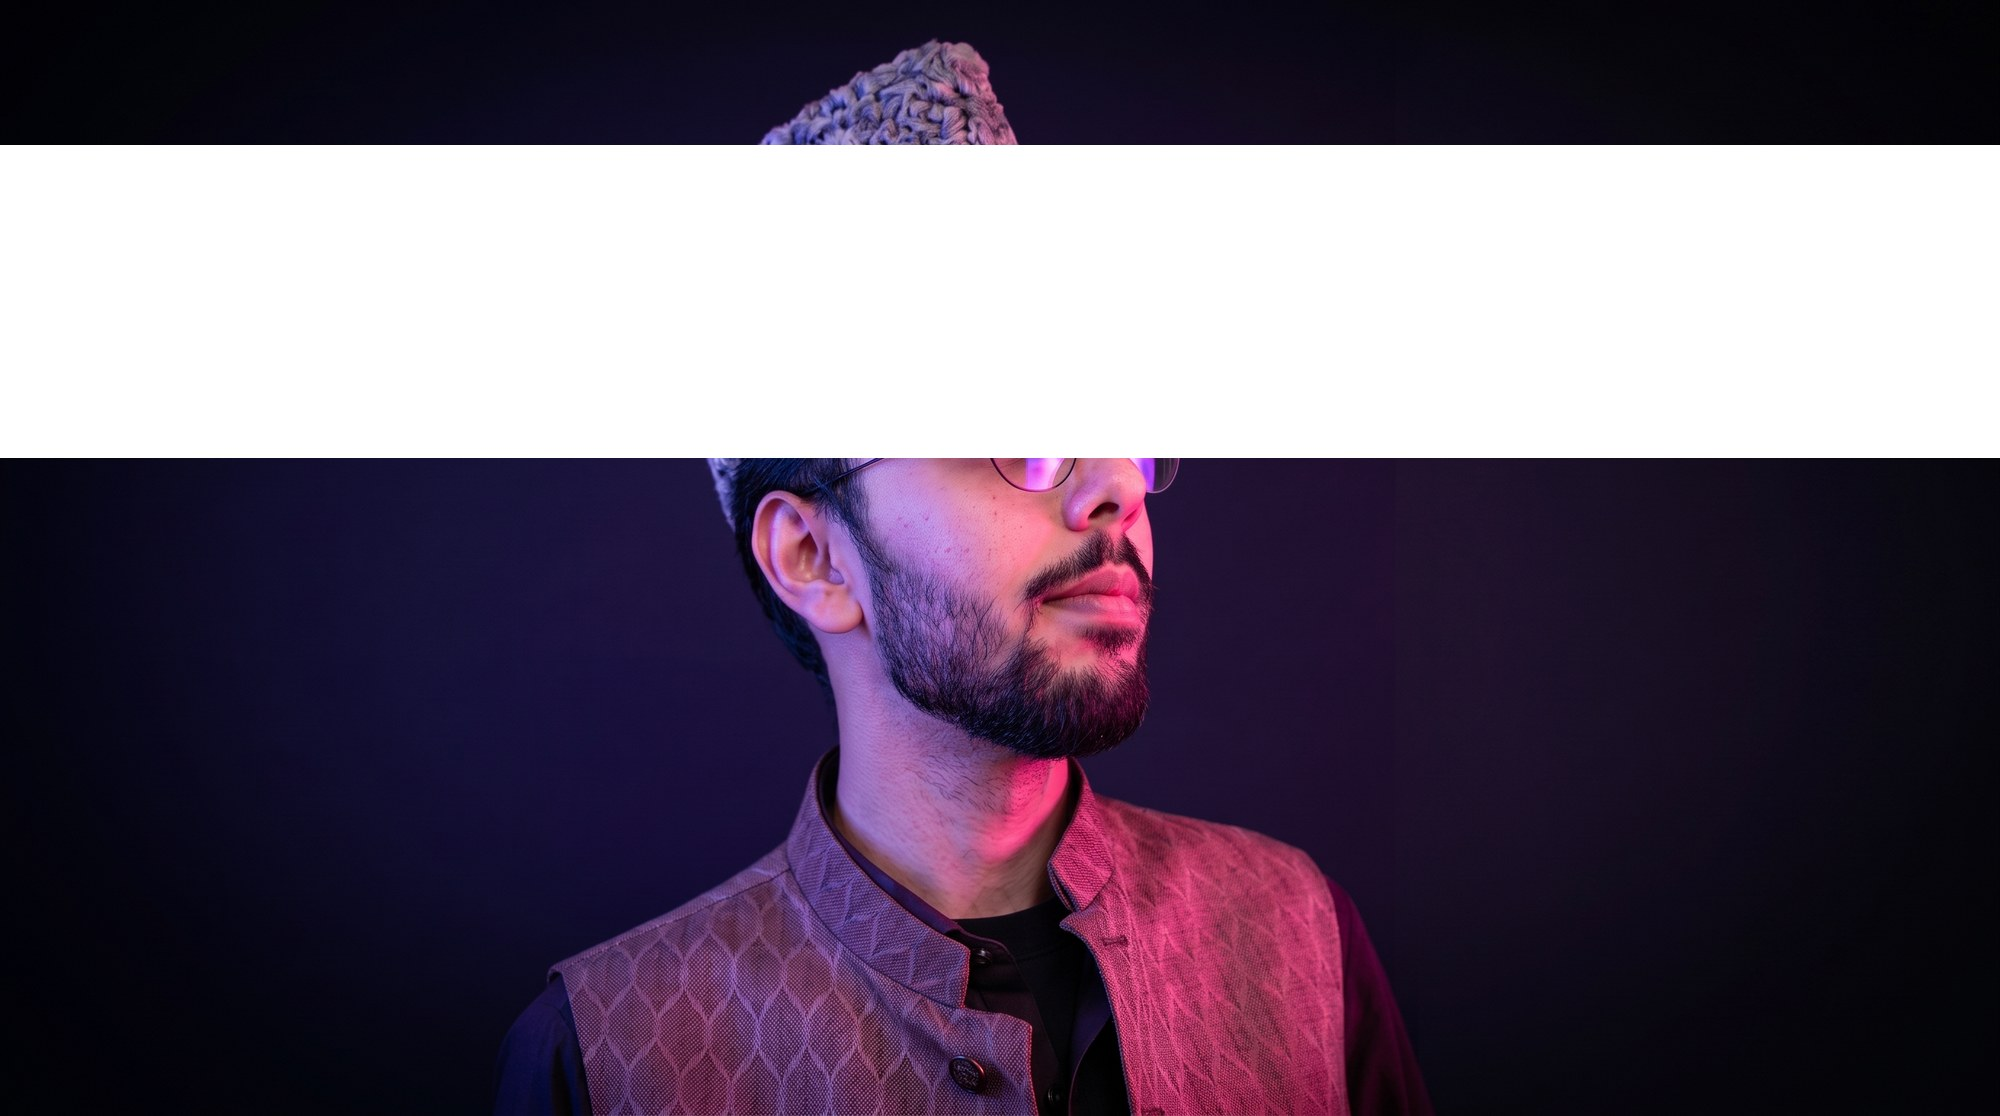
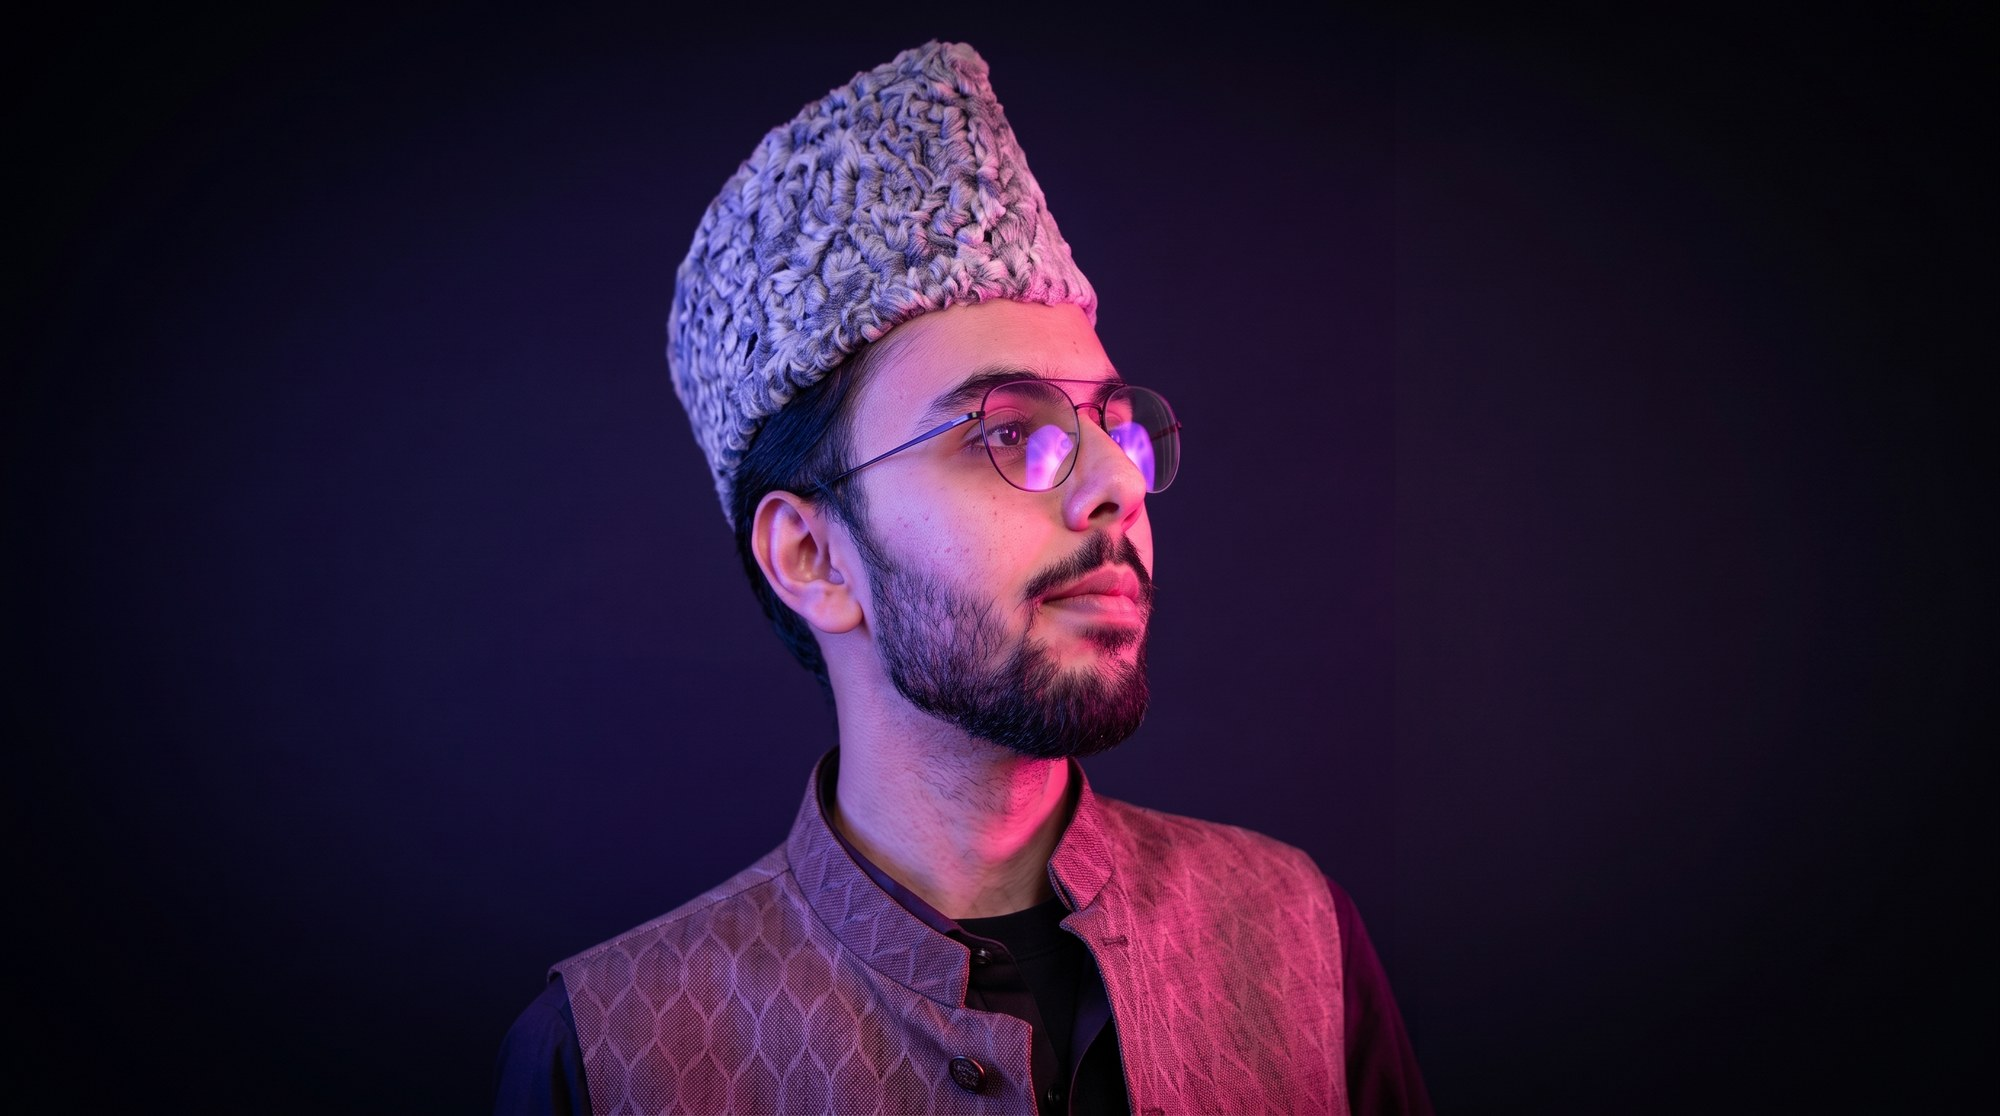
Phase 4: drop the panel and the glass, white surfaces, orchid CTA
Reverses two Phase 3 decisions and moves the palette.

- The white color-block and the subject cutout are both gone; the hero is one
  continuous dark backdrop, the photo sitting on #1A0E1F so anything the photo
  does not cover reads as the same wall. Reclaims 1.2 MB.
- Nav loses the frosted glass: plain white type straight on the photograph, no
  box, no blur, no rule. Inner pages keep a solid bar, since white-on-nothing
  over a white page is invisible.
- Background joins the nav, with an anchor on the section.
- The name no longer crosses the face. Fixing the overlap by nudging pixels only
  held at one width, because the crop pushes the subject leftward as the
  viewport narrows, so the side-by-side composition now starts at lg and below
  that the hero stacks over a scrim. Measured clear at every width from lg up.
- Tagline up a step; CTA to orchid on plum (6.6:1).
- Surfaces go white everywhere but the hero, with the violet glow behind About,
  Background, Contact and the case studies. Each glow is clipped by its
  container, since it is wider than a phone and was dragging the page sideways.

Changed region(s): [[0.0, 0.1219, 1.0, 0.4265]]

diff --git a/src/pages/Home.jsx b/src/pages/Home.jsx
@@ -4,6 +4,7 @@ import Reveal from '../components/Reveal'
 import WorkGlimpses from '../components/WorkGlimpses'
 import { Section, SectionHeading } from '../components/Section'
 import Pill from '../components/Pill'
+import Glow from '../components/Glow'
 import { useDocumentTitle } from '../hooks/useDocumentTitle'
 
 const approach = [
@@ -57,53 +58,53 @@ export default function Home() {
   return (
     <>
       {/* ---------- Hero ----------
-          Three layers, in this order: the backdrop (which carries the white
-          panel, baked in so it can never drift out of register with the head),
-          then the subject cut out of that same frame, then the type. The
-          cutout's drop-shadow falls on the panel, which is what makes him read
-          as a layer in front of it rather than pasted onto it. */}
+          One continuous dark backdrop now: the photo over #1A0E1F, which is the
+          same near-black violet the name gradient starts from, so any area the
+          photo does not cover reads as part of the same wall. The content is
+          full-bleed rather than centred in the page container, so the name
+          stays pinned to the left edge and clear of his face at every width. */}
       <section className="grain relative isolate flex min-h-[92vh] flex-col overflow-hidden bg-[#1A0E1F]">
         <img
           src="/images/hero.jpg"
-          alt=""
-          aria-hidden="true"
-          className="absolute inset-0 h-full w-full object-cover object-center"
-        />
-        <img
-          src="/images/hero-subject.png"
           alt="Mohammad Nouman-Ud-din"
-          className="absolute inset-0 h-full w-full object-cover object-center"
-          style={{ filter: 'drop-shadow(-10px 14px 22px rgba(12,5,16,0.55))' }}
+          className="absolute inset-0 h-full w-full object-cover"
+          style={{ objectPosition: '20% center' }}
         />
-        {/* Narrow screens crop most of the backdrop away, so the type needs its
+        {/* Narrow screens crop straight in on the face, so the type needs its
             own ground to sit on. */}
-        <div
-          aria-hidden="true"
-          className="absolute inset-0 bg-[#1A0E1F]/70 md:hidden"
-        />
+        <div aria-hidden="true" className="absolute inset-0 bg-[#1A0E1F]/70 lg:hidden" />
 
-        <div className="relative mx-auto flex w-full max-w-6xl flex-1 flex-col px-5 pb-10 pt-28 sm:px-8 md:pb-14 md:pt-36">
-          <div className="flex flex-1 flex-col justify-center gap-10 md:flex-row md:items-center md:justify-between md:gap-16">
-            <Reveal as="h1" className="max-w-[9ch] font-serif text-[3rem] leading-[0.98] sm:text-[4.2rem] md:text-[5.4rem] lg:text-[6.2rem]">
-              <span className="hero-name">Mohammad Nouman-Ud-din</span>
+        <div className="relative flex w-full flex-1 flex-col px-6 pb-10 pt-28 md:px-10 md:pb-14 md:pt-36 lg:px-16">
+          <div className="flex flex-1 flex-col justify-center gap-10 lg:flex-row lg:items-center lg:justify-between lg:gap-16">
+            <Reveal
+              as="h1"
+              className="font-serif text-[2.6rem] leading-[0.98] sm:text-[3.4rem] lg:text-[4.2rem] xl:text-[5rem]"
+            >
+              <span className="hero-name">
+                Mohammad
+                <br />
+                Nouman-
+                <br />
+                Ud-din
+              </span>
             </Reveal>
 
             <Reveal
               as="p"
               delay={140}
-              className="max-w-[30ch] text-[0.95rem] leading-relaxed text-white/85 md:mt-24 md:max-w-[26ch] md:text-[1rem]"
+              className="max-w-[34ch] text-[1.05rem] leading-relaxed text-white/85 md:text-[1.2rem] lg:mt-24 lg:max-w-[24ch]"
             >
               I use AI to create branded content — polished enough to hold up as a real
               campaign.
             </Reveal>
           </div>
 
-          <Reveal delay={220} className="mt-10 flex flex-wrap items-center gap-4 md:mt-0">
-            <Pill href="#work" icon={ArrowDown}>
+          <Reveal delay={220} className="mt-10 flex flex-wrap items-center gap-4 lg:mt-0">
+            <Pill href="#work" icon={ArrowDown} variant="orchid">
               See the work
             </Pill>
-            <span className="inline-flex items-center gap-2.5 rounded-full border border-white/25 bg-white/10 px-4 py-2 text-[0.65rem] uppercase tracking-[0.18em] text-white backdrop-blur-md">
-              <span aria-hidden="true" className="h-1.5 w-1.5 rounded-full bg-[#F2C6D9]" />
+            <span className="inline-flex items-center gap-2.5 rounded-full border border-white/25 px-4 py-2 text-[0.65rem] uppercase tracking-[0.18em] text-white">
+              <span aria-hidden="true" className="h-1.5 w-1.5 rounded-full bg-[#D9A9E8]" />
               Available for freelance work
             </span>
           </Reveal>
@@ -128,14 +129,12 @@ export default function Home() {
       </section>
 
       {/* ---------- About ---------- */}
-      <Section id="about" className="relative scroll-mt-24">
-        <div
-          aria-hidden="true"
-          className="pointer-events-none absolute left-1/2 top-1/4 h-[34rem] w-[34rem] -translate-x-1/2 rounded-full bg-[radial-gradient(closest-side,rgba(139,75,158,0.30),transparent)] blur-3xl md:h-[46rem] md:w-[46rem]"
-        />
+      <Section id="about" className="relative scroll-mt-24 overflow-hidden">
+        <Glow />
         <SectionHeading
           eyebrow="About"
           title="Two kinds of AI work, one practice."
+          titleClassName="md:text-[3.2rem]"
           intro="I work with AI at both ends of a project — the images and film a brand shows the world, and the software sitting behind them."
         />
 
@@ -189,8 +188,9 @@ export default function Home() {
       </Section>
 
       {/* ---------- Background ---------- */}
-      <div className="border-y border-border bg-bg-deep">
-        <Section className="md:!py-24">
+      <div id="background" className="relative scroll-mt-24 overflow-hidden border-y border-border bg-bg-deep">
+        <Glow className="top-0" />
+        <Section className="relative md:!py-24">
           <div className="grid gap-10 md:grid-cols-[0.8fr_1.2fr] md:gap-16">
             <div className="relative">
               <span
@@ -204,7 +204,7 @@ export default function Home() {
                 eyebrow="Background"
                 eyebrowClassName="!text-[0.8rem] font-medium !tracking-[0.2em]"
                 title="Creative first, technical throughout."
-                titleClassName="heading-gradient md:text-[3rem]"
+                titleClassName="heading-gradient md:text-[3.4rem]"
               />
             </div>
 

diff --git a/src/components/Nav.jsx b/src/components/Nav.jsx
@@ -71,17 +71,15 @@ export default function Nav() {
   // The glass bar only works where there is a dark photograph behind it. Every
   // other route is cream, so white-on-glass would vanish there.
   const overHero = pathname === '/'
-  const label = overHero ? 'text-white/85' : 'text-primary'
+  const label = overHero ? 'text-white' : 'text-primary'
   const labelActive = overHero ? 'text-white' : 'text-accent-deep'
-  const rule = overHero ? 'border-white/70' : 'border-accent'
+  const rule = overHero ? 'border-transparent' : 'border-accent'
 
   return (
     <header
       className={
         overHero
-          ? `fixed inset-x-0 top-0 z-50 border-b border-white/15 bg-white/10 backdrop-blur-[16px] backdrop-saturate-150 transition-shadow duration-300 ${
-              scrolled ? 'shadow-[0_10px_34px_-22px_rgba(12,5,16,0.9)]' : ''
-            }`
+          ? 'fixed inset-x-0 top-0 z-50'
           : `sticky top-0 z-50 border-b border-accent/40 transition-all duration-300 ${
               scrolled
                 ? 'bg-bg/90 shadow-[0_10px_30px_-20px_rgba(43,36,32,0.55)] backdrop-blur-xl'
@@ -89,7 +87,11 @@ export default function Nav() {
             }`
       }
     >
-      <div className="mx-auto flex h-[4.5rem] max-w-6xl items-center justify-between gap-6 px-5 sm:px-8 md:h-[5.25rem]">
+      <div
+        className={`flex h-[4.5rem] items-center justify-between gap-6 md:h-[5.25rem] ${
+          overHero ? 'w-full px-6 md:px-10 lg:px-16' : 'mx-auto w-full max-w-6xl px-5 sm:px-8'
+        }`}
+      >
         <Link
           to="/"
           aria-label="Mohammad Nouman-Ud-din — home"
@@ -116,6 +118,13 @@ export default function Nav() {
             className={`border-b-[1.5px] border-transparent pb-1 text-sm tracking-wide transition-colors duration-150 ${label}`}
           >
             About
+          </Link>
+
+          <Link
+            to="/#background"
+            className={`border-b-[1.5px] border-transparent pb-1 text-sm tracking-wide transition-colors duration-150 ${label}`}
+          >
+            Background
           </Link>
 
           <div
@@ -211,6 +220,13 @@ export default function Nav() {
             className="block border-b border-border/70 py-3.5 text-[0.95rem] text-primary"
           >
             About
+          </Link>
+
+          <Link
+            to="/#background"
+            className="block border-b border-border/70 py-3.5 text-[0.95rem] text-primary"
+          >
+            Background
           </Link>
 
           <div className="border-b border-border/70">

diff --git a/src/pages/CaseStudy.jsx b/src/pages/CaseStudy.jsx
@@ -8,6 +8,7 @@ import { Section } from '../components/Section'
 import Pill from '../components/Pill'
 import Lightbox, { useLightbox } from '../components/Lightbox'
 import ScrollProgress from '../components/ScrollProgress'
+import Glow from '../components/Glow'
 import { useDocumentTitle } from '../hooks/useDocumentTitle'
 
 // Reference sheets keep their own proportions — written out in full so the
@@ -64,7 +65,8 @@ export default function CaseStudy() {
     <article>
       <ScrollProgress />
       {/* ---------- Header ---------- */}
-      <Section className="!pb-10 !pt-12 md:!pb-14 md:!pt-16">
+      <Section className="relative overflow-hidden !pb-10 !pt-12 md:!pb-14 md:!pt-16">
+        <Glow className="-top-20" />
         <Reveal>
           <Link
             to="/#work"
@@ -75,7 +77,7 @@ export default function CaseStudy() {
           </Link>
         </Reveal>
 
-        <div className="mt-8 grid gap-8 md:grid-cols-[1.4fr_0.6fr] md:items-end md:gap-16">
+        <div className="relative mt-8 grid gap-8 md:grid-cols-[1.4fr_0.6fr] md:items-end md:gap-16">
           <div>
             <Reveal as="p" className="text-[0.63rem] uppercase tracking-[0.22em] text-accent-deep">
               {kindLabel[project.kind]}

diff --git a/src/pages/Contact.jsx b/src/pages/Contact.jsx
@@ -2,6 +2,7 @@ import { Phone, Mail, Linkedin, Instagram } from 'lucide-react'
 import { contact, links } from '../data/links'
 import Reveal from '../components/Reveal'
 import { Section } from '../components/Section'
+import Glow from '../components/Glow'
 import { useDocumentTitle } from '../hooks/useDocumentTitle'
 
 const socials = [
@@ -14,8 +15,9 @@ export default function Contact() {
   const visibleSocials = socials.filter((social) => links[social.key])
 
   return (
-    <Section className="!pt-16 md:!pt-24">
-      <div className="mx-auto max-w-3xl text-center">
+    <Section className="relative overflow-hidden !pt-16 md:!pt-24">
+      <Glow />
+      <div className="relative mx-auto max-w-3xl text-center">
         <Reveal as="p" className="text-[0.63rem] uppercase tracking-[0.24em] text-accent-deep">
           Contact
         </Reveal>
@@ -23,7 +25,7 @@ export default function Contact() {
         <Reveal
           as="h1"
           delay={80}
-          className="mt-6 font-serif text-[2.6rem] leading-[1.08] md:text-[3.6rem]"
+          className="mt-6 font-serif text-[2.8rem] leading-[1.06] md:text-[4.2rem]"
         >
           Say hello.
         </Reveal>

diff --git a/src/index.css b/src/index.css
@@ -2,7 +2,7 @@
 
 @theme {
   /* ---- Palette (edit here; everything downstream follows) ---- */
-  --color-bg: #f7f3ec;            /* warm cream background */
+  --color-bg: #ffffff;            /* page surface — white everywhere but the hero */
   --color-text: #2b2420;          /* warm charcoal, primary text */
   --color-primary: #4a2545;       /* deep plum — headings, emphasis */
   --color-accent: #a9793e;        /* warm bronze — borders, rules, large display text */
@@ -10,7 +10,7 @@
   --color-accent-light: #c08a4e;  /* lighter gold-bronze — secondary highlights, non-text */
   --color-surface: #ffffff;       /* card backgrounds */
   --color-border: #e4ddd0;        /* hairline borders */
-  --color-bg-deep: #f1eae0;       /* the alternate band — section rhythm, no real colour shift */
+  --color-bg-deep: #f7f5fa;       /* the alternate band — a whisper of violet, not a colour shift */
   --color-accent-plum: #ce9a5e;   /* bronze *text* on plum; the base bronze is only 3.6:1 there */
 
   /* ---- Corner radius: one scale, used everywhere ---- */

diff --git a/src/components/Glow.jsx b/src/components/Glow.jsx
@@ -1,0 +1,15 @@
+/**
+ * The soft violet wash that sits behind text and cards. Decorative only, so it
+ * is hidden from assistive tech and never intercepts a pointer.
+ *
+ * Its parent needs `relative`, and the content beside it needs `relative` too
+ * so it paints above.
+ */
+export default function Glow({ className = '' }) {
+  return (
+    <div
+      aria-hidden="true"
+      className={`pointer-events-none absolute left-1/2 top-1/4 h-[34rem] w-[34rem] -translate-x-1/2 rounded-full bg-[radial-gradient(closest-side,rgba(139,75,158,0.22),transparent)] blur-3xl md:h-[46rem] md:w-[46rem] ${className}`}
+    />
+  )
+}

diff --git a/src/components/Pill.jsx b/src/components/Pill.jsx
@@ -18,6 +18,9 @@ export default function Pill({
       'bg-accent-deep text-white hover:bg-primary hover:shadow-[0_10px_24px_-12px_rgba(74,37,69,0.7)]',
     outline:
       'border border-accent/60 text-accent-deep hover:border-primary hover:text-primary hover:shadow-[0_10px_24px_-14px_rgba(43,36,32,0.5)]',
+    // Light orchid on deep plum — both already in the palette, and 6.6:1.
+    orchid:
+      'bg-[#D9A9E8] text-primary hover:bg-[#C78FDA] hover:shadow-[0_12px_28px_-14px_rgba(26,14,31,0.8)]',
   }
 
   return (
